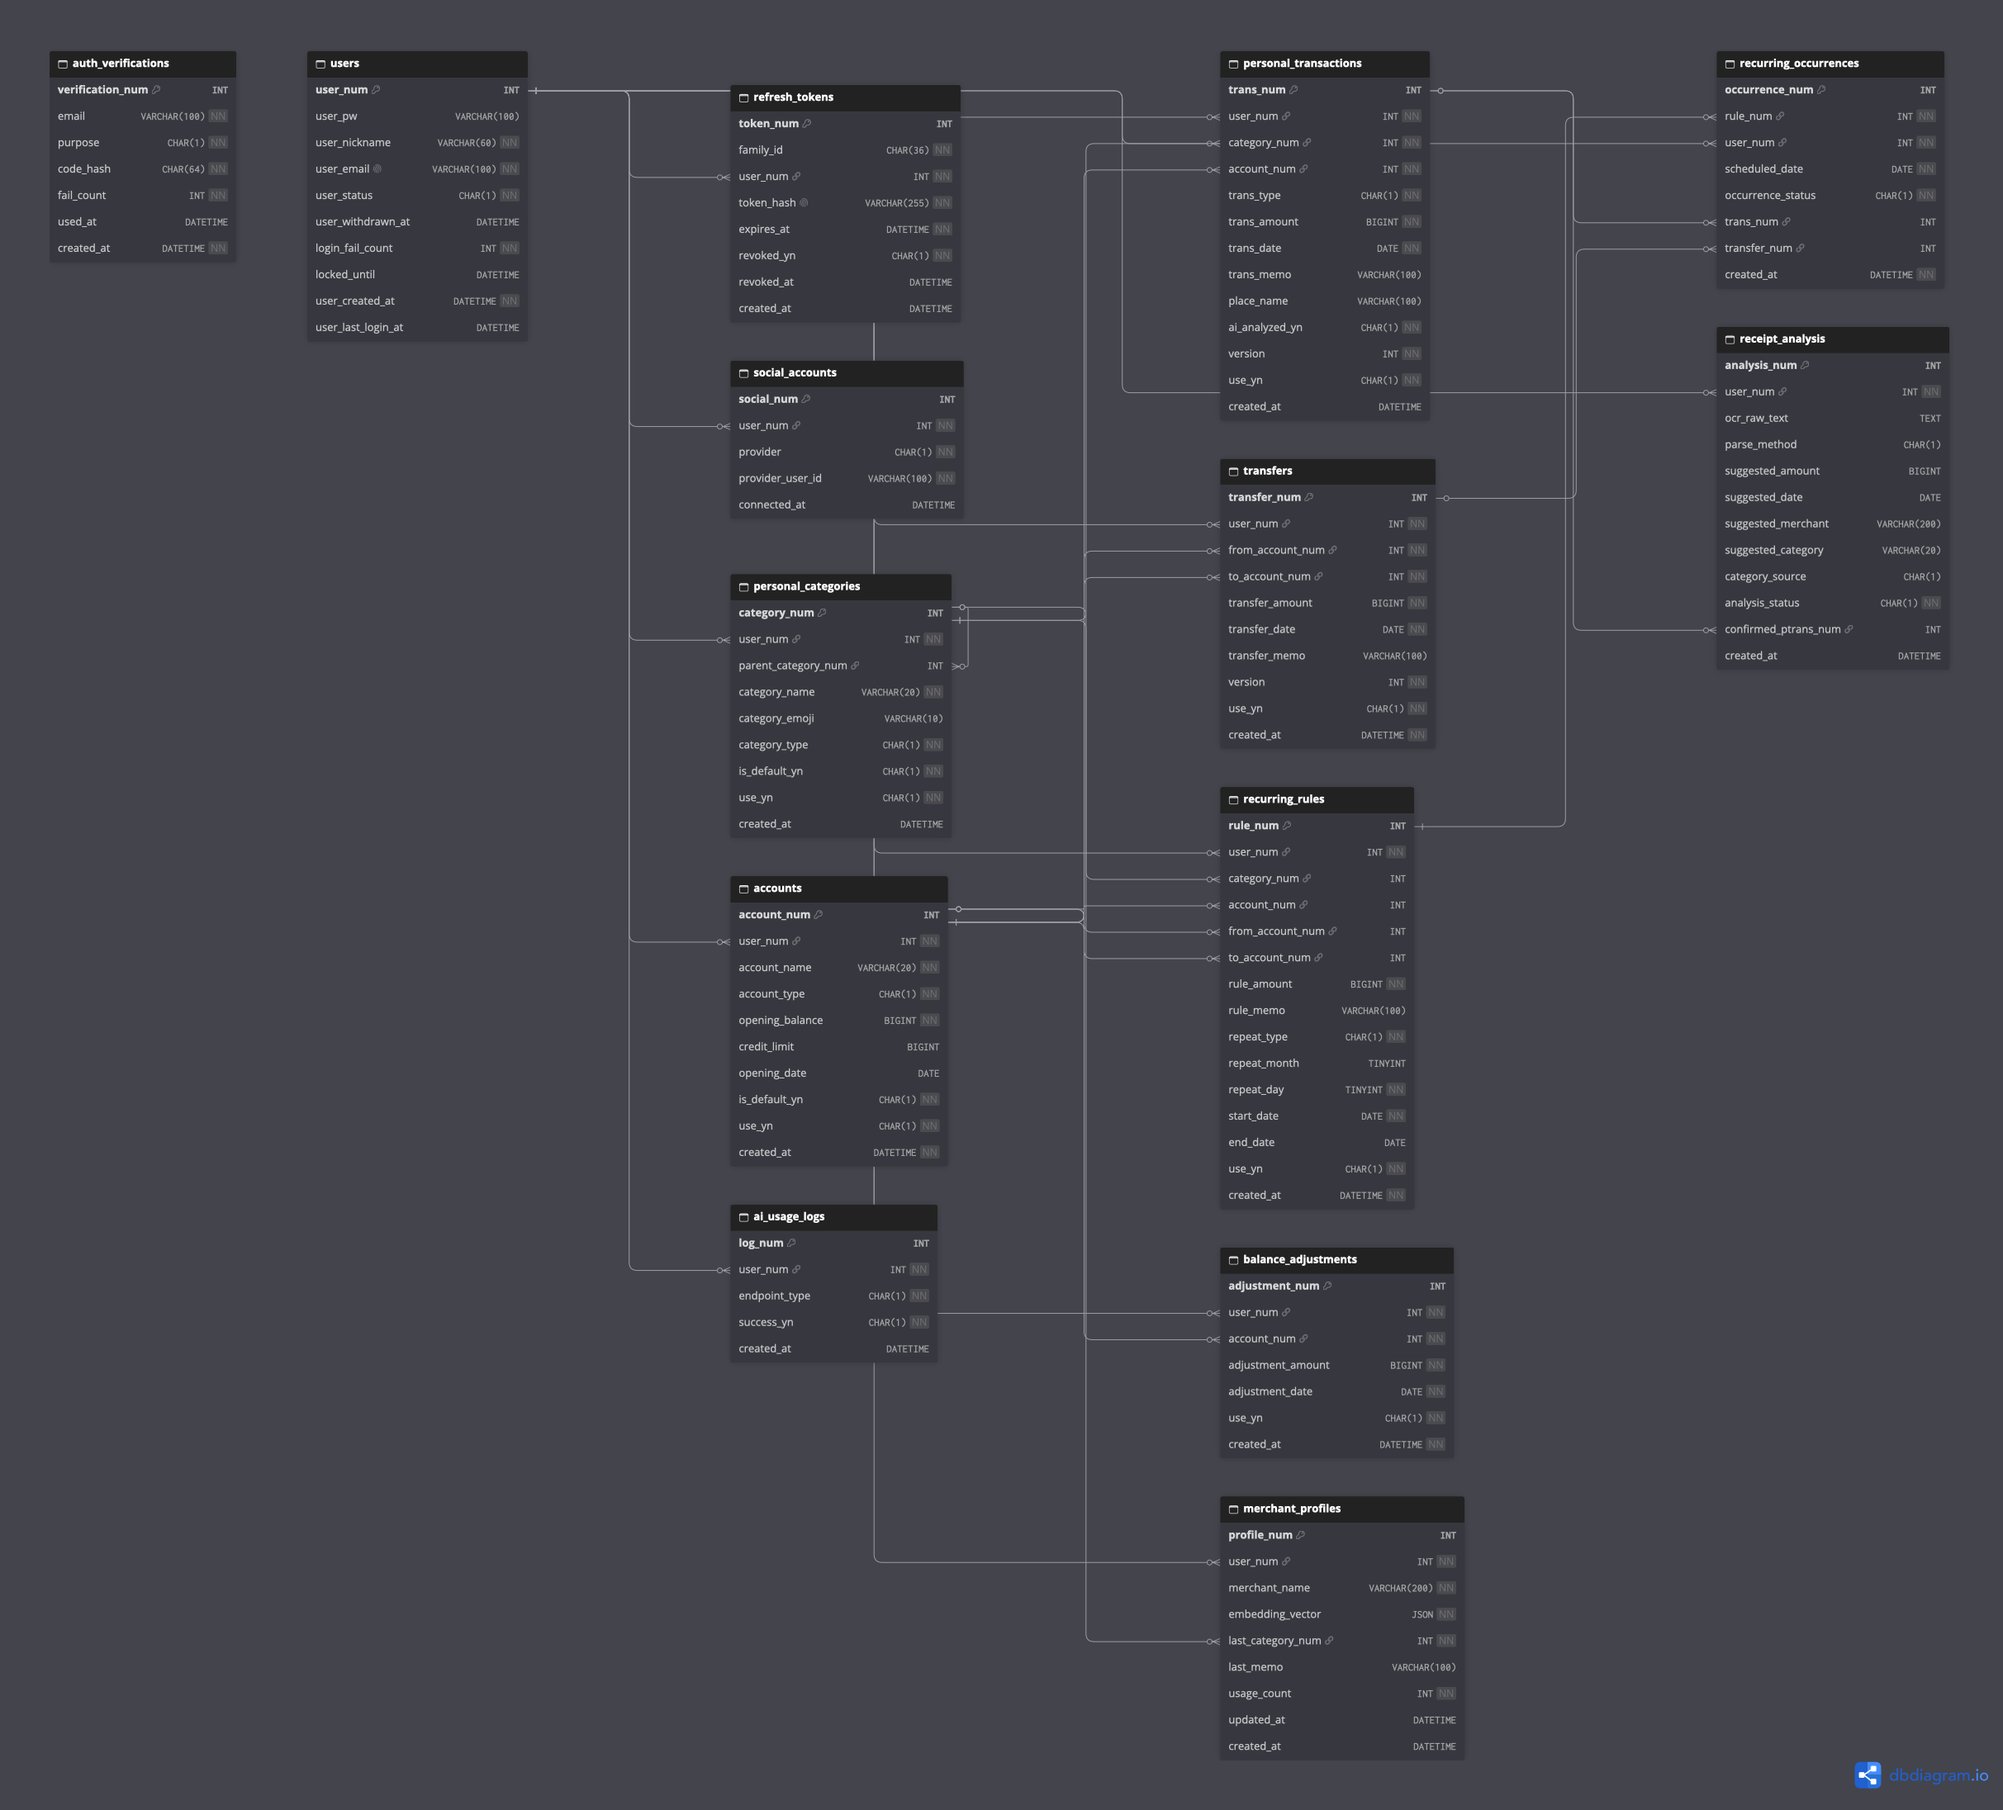
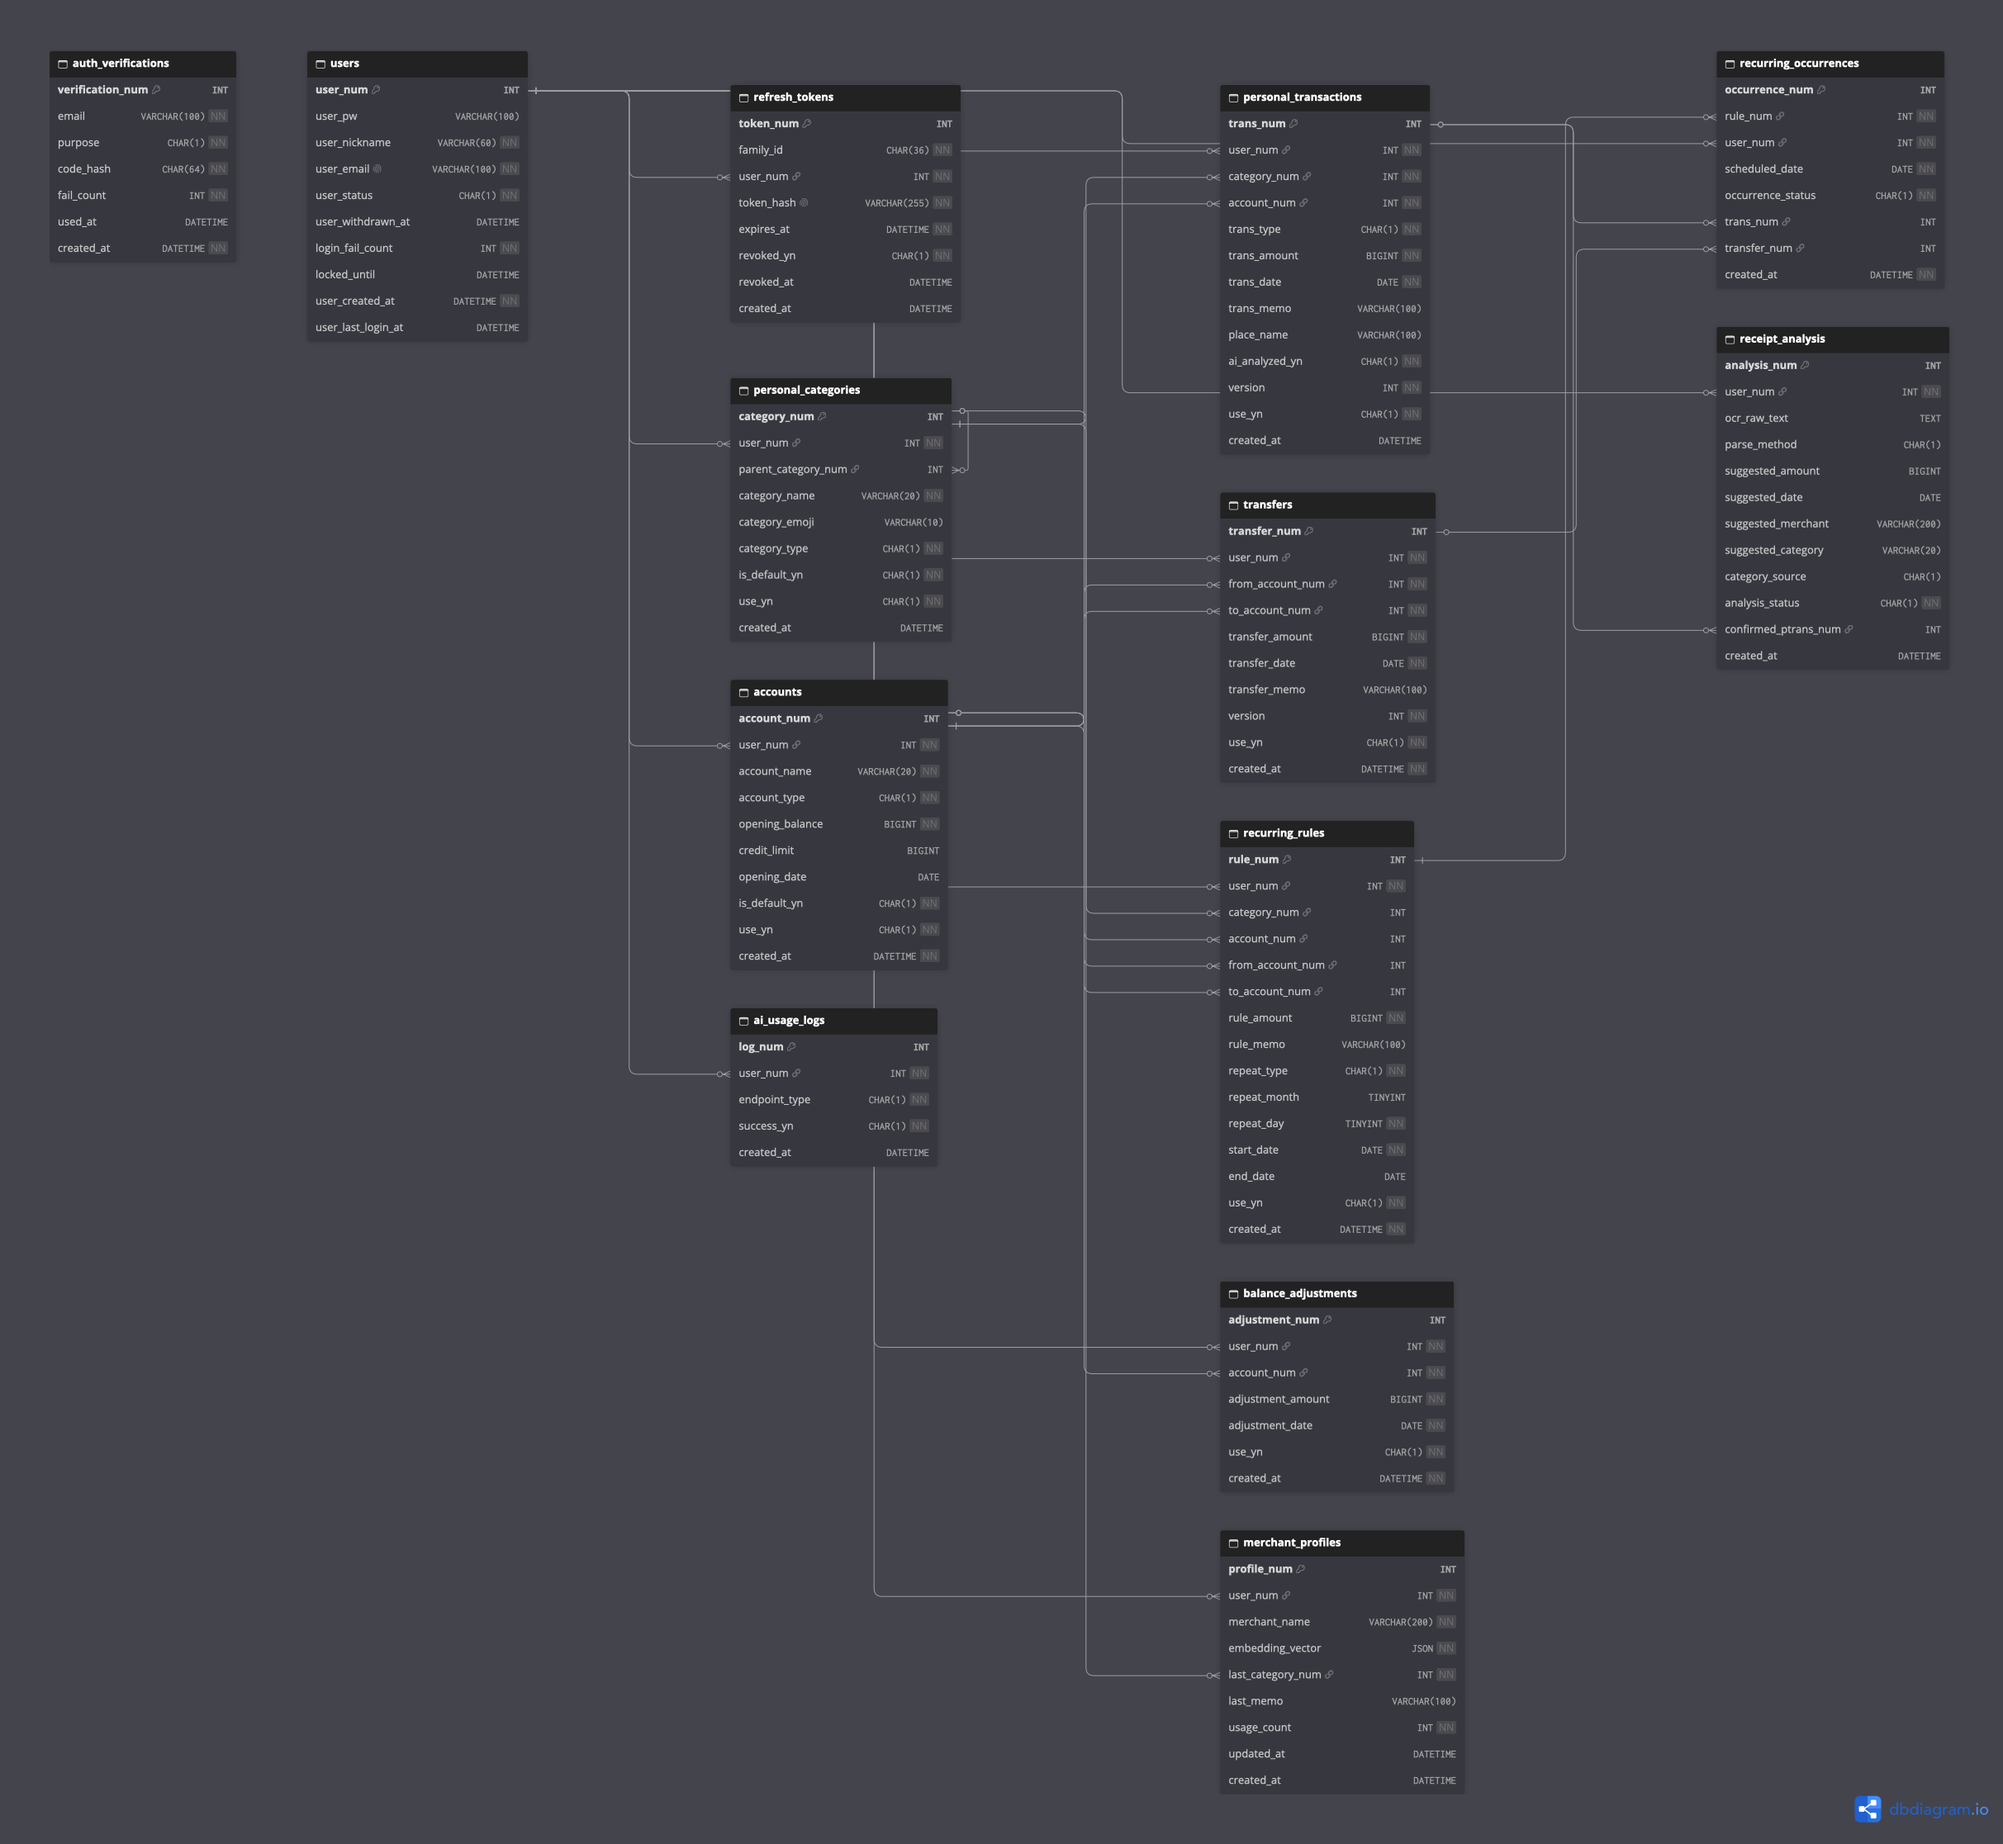
docs: ERD 에서 social_accounts 뺌(소셜 로그인 안 함) — 쓰는 표 10개 + 예정 3개
Claude-Session: https://claude.ai/code/session_012sQ1QY2fJmJ4jAYSGR4kSh

diff --git a/README.md b/README.md
@@ -71,7 +71,7 @@ flowchart LR
 - `main` 에 push 하면 **JUnit 단위·통합 테스트 200여 개**가 일회용 MySQL 에서 돌고, 그 빌드의 jar 를 한 번 띄워 헬스 200 을 확인한 뒤 배포합니다. 하나라도 실패하면 배포되지 않습니다.
 
 <details>
-<summary><b>ERD</b> — 지금 쓰는 표 11개 + 쓸 예정 3개(receipt_analysis · merchant_profiles · ai_usage_logs)</summary>
+<summary><b>ERD</b> — 지금 쓰는 표 10개 + 쓸 예정 3개(receipt_analysis · merchant_profiles · ai_usage_logs)</summary>
 
 <img src="docs/images/erd.png" alt="ERD — 회원 · 인증, 계좌 · 거래 · 이체 · 잔액 보정 · 반복 규칙, 예정된 영수증 분석 · 상호명 임베딩 · AI 호출 기록">
 
